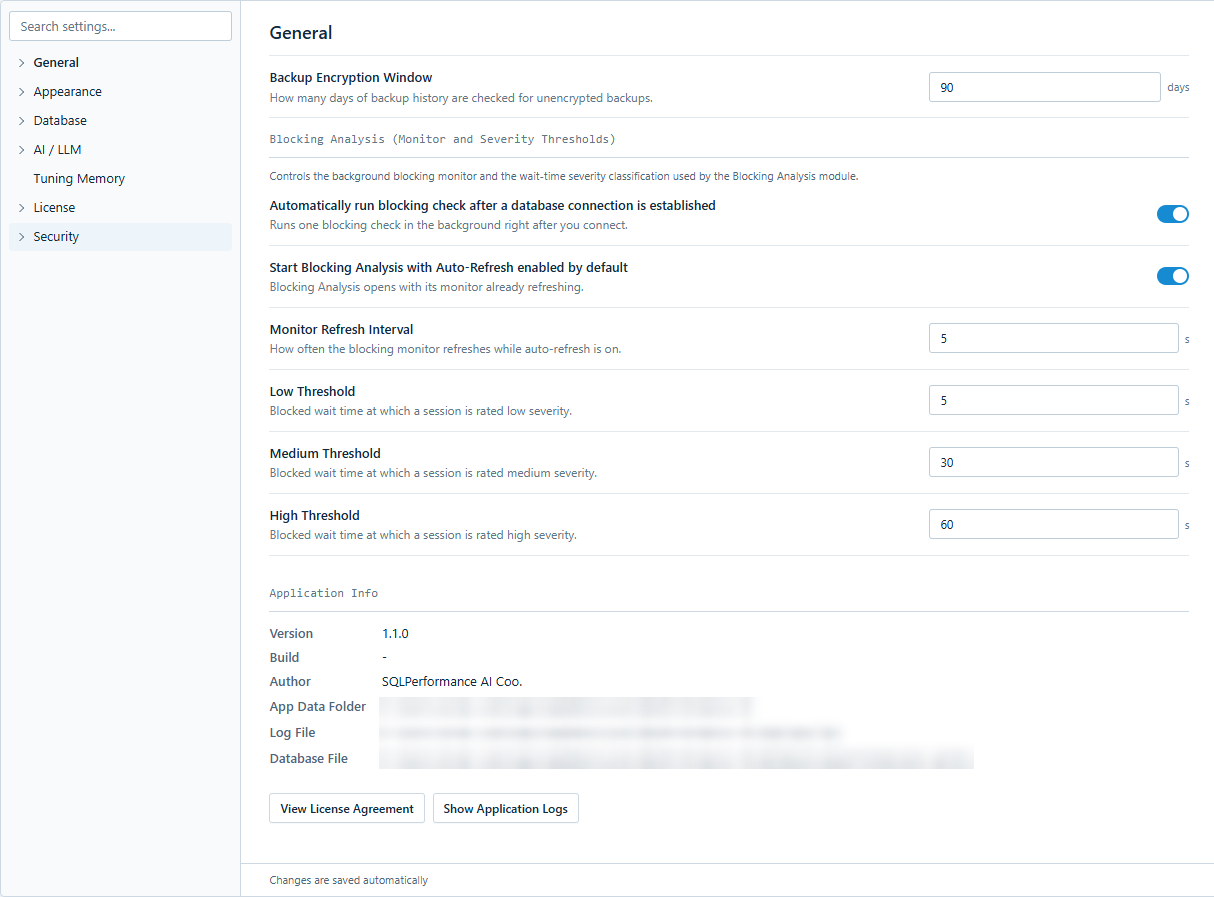
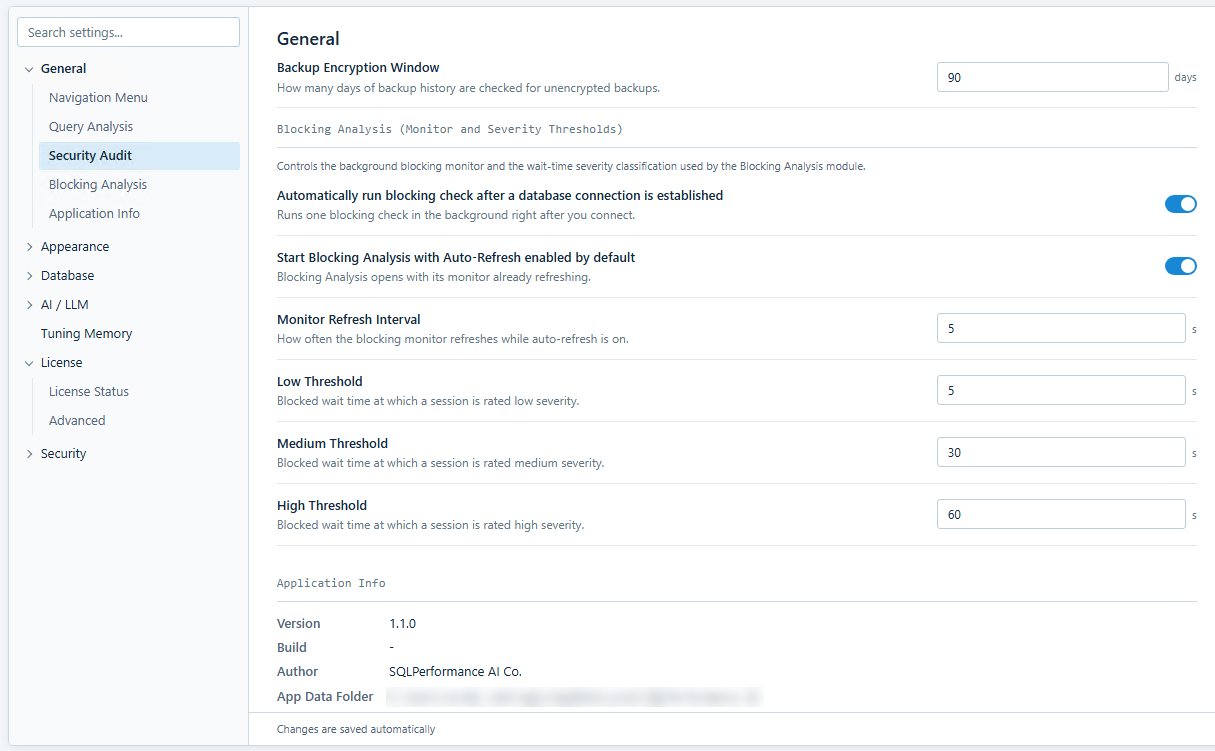
docs(settings): new General screenshot with the corrected Author
App Data Folder is blurred; caption says Log File, Database File and the
two buttons are further down. Live as e26c942f.

diff --git a/app/docs/settings.tsx b/app/docs/settings.tsx
@@ -195,7 +195,7 @@ export default function SettingsTemplate() {
           <>
             <p>
               The lower half of the General page in version 1.1.0, with every value at its default. Navigation Menu and
-              Query Analysis sit above this part; the local folder paths are blurred.
+              Query Analysis sit above this part; the local folder path is blurred.
             </p>
             <ul className="list-disc space-y-1 pl-5">
               <li>
@@ -209,8 +209,8 @@ export default function SettingsTemplate() {
                 60 s of blocked wait time.
               </li>
               <li>
-                <strong>Application Info:</strong> Version 1.1.0, Build, Author, App Data Folder, Log File, and Database
-                File, with View License Agreement and Show Application Logs.
+                <strong>Application Info:</strong> Version 1.1.0, Build, Author, and App Data Folder. Scrolling further
+                shows Log File, Database File, View License Agreement, and Show Application Logs.
               </li>
               <li>
                 <strong>Status line:</strong> Changes are saved automatically.
@@ -219,9 +219,9 @@ export default function SettingsTemplate() {
           </>
         }
         image="/docs/settings/general.png"
-        alt="Settings General page showing Backup Encryption Window, the Blocking Analysis monitor switches and severity thresholds, and Application Info with blurred local paths"
-        width={1214}
-        height={897}
+        alt="Settings General page showing Backup Encryption Window, the Blocking Analysis monitor switches and severity thresholds, and the top of Application Info with the folder path blurred"
+        width={1215}
+        height={751}
       />
 
       <InfoCard eyebrow="General Page">
